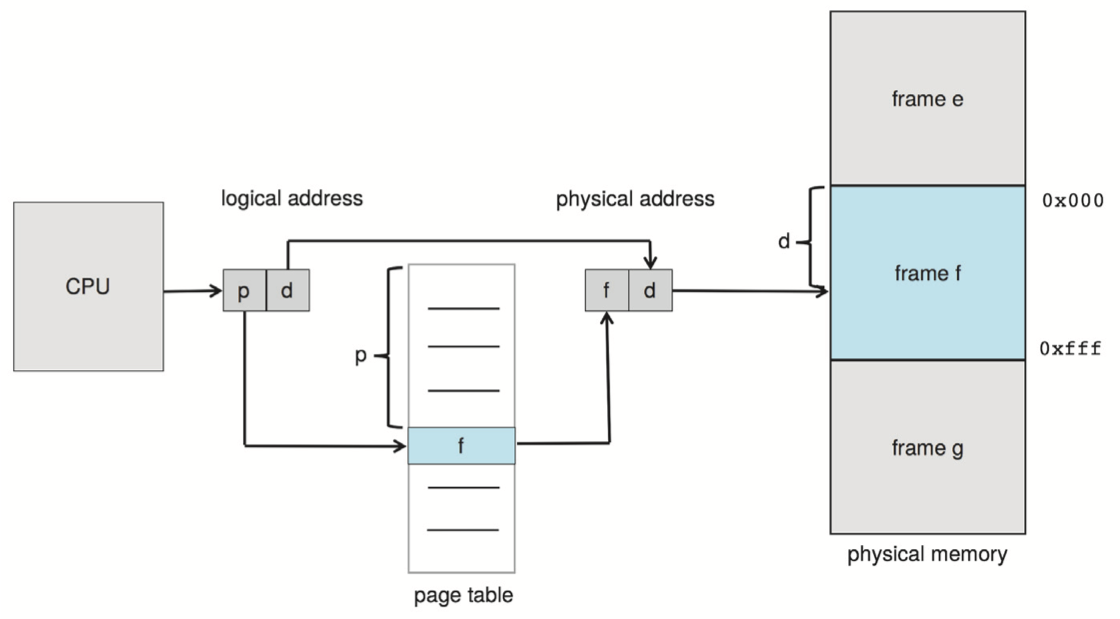
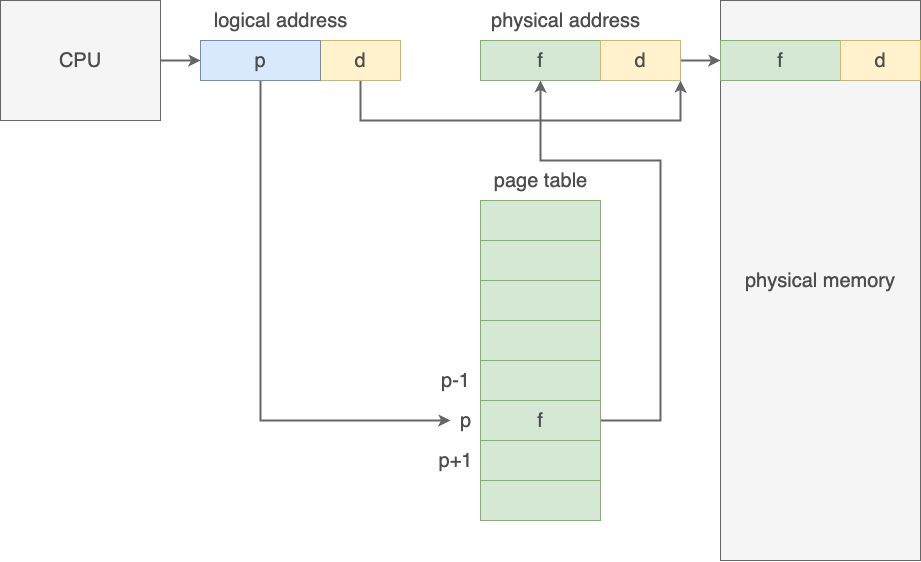
chore: Content synchronization

diff --git a/docs/_css/extra.css b/docs/_css/extra.css
@@ -25,6 +25,12 @@ h1,
     font-weight: 600;
 }
 
+/* can make content in wider div */
+/* .md-grid {
+    margin-left: auto;
+    margin-right: auto;
+    max-width: 95%;
+} */
 
 body,
 input {

diff --git a/docs/cour_note/D3QD_OperatingSystem/Unit3-Part1.md b/docs/cour_note/D3QD_OperatingSystem/Unit3-Part1.md
@@ -122,7 +122,7 @@ Dynamic relocation using a relocation register.
 
 #### 帧 & 页
 
-因此，我们将两者的优点合并，我们将物理内存划分为固定大小的块，称为**帧(frames)**（类似于 fixed partition），每个帧对应虚拟地址中等大的一块**页(pages)**，用这些帧来作为连续的虚拟地址的物理基础，用虚拟的页号来支持连续逻辑内存（马上就会细说），这样保证了在一定限度内页分配的自由度，利用了虚拟地址的灵活性；又保证了内存相对来说还是成块连续的，提供了物理地址连续的高效性。而帧与页的对应关系，是通过**页表(page table)**来实现的。
+因此，我们将两者的优点合并，我们将物理内存划分为固定大小的块，称为**帧(frames)**（类似于 fixed partition），每个帧对应虚拟地址中等大的一块**页(pages)**，用这些帧来作为连续的虚拟地址的物理基础，用虚拟的页号来支持连续逻辑内存（马上就会细说），这样保证了在一定限度内页分配的自由度，利用了虚拟地址的灵活性；又保证了内存相对来说还是成块连续的，提供了物理地址连续的高效性。而帧与页的对应关系，是通过**页表(page table)**来实现的，在页表中，实际上是一个以页号为索引的帧号数组，按照页号顺序排列，因此，页号就是对应的表项在数列中的位次。
 
 显然，每个进程各自维护自己的页表更加合理，所以**每一个进程应当都有自己的页表**，即我们称页表是 per-process data structures。
 
@@ -177,11 +177,15 @@ Paging model of logical and physical memory.<br/>
 
 因此，从虚拟地址到物理地址的映射，实际上就是在页表中查询虚拟地址中的 page number，将其换为 frame number，再直接拼接 offset 就行了。
 
-<figure markdown>
 <center> ![](img/32.png) </center>
-</figure>
 
 > 实际上这是个非常自然的过程：整体地看虚拟地址，就是直接在连续的虚拟内存中找到对应的 Byte；整体地看物理地址，同样也是直接在连续的物理内存中找到对应的 Byte。现在通过置换二进制地址字符串的前缀，实现了一个寻址空间的映射。而这个映射中，表示 offset 的后缀不变，正对应着页和帧中偏移寻址规则的统一。
+
+!!! warning "Protection"
+
+    请注意，使用过程中有些页可能尚未与实际的帧建立映射关系，换句话来说是不可用的。所以我们需要一个手段来标识表项是否有效，于是在页表中引入 valid bit，用来标识页是否有效。
+
+    <center> ![](img/34.png) </center>
 
 !!! tip "page size 的选择"
 
@@ -196,7 +200,6 @@ Paging model of logical and physical memory.<br/>
 我们前面说过，页表是 per-process data structures，所以页表应当作为一个进程的元信息被维护。显然我们不能直接用大量寄存器来维护页表（理论上很快，但是太贵、设计上也不现实），所以页表实际上应当被放在<u>内存</u>中（进一步的，为了保证效率，我们将页表放在主存中），我们通过用寄存器维护一个指向页表的指针来维护页表，这个特殊的寄存器被称为**页表基址寄存器(page-table base register, PTBR)**，在 [context switch](./Unit1.md#context-switch){target="_blank"} 的过程中，我们也应当对 PTBR 进行交换。
 
 !!! question "嘿！可是内存真的好慢！"
-
     不仅如此，由于地址映射的实现逻辑，我们首先需要利用页表查询帧号，利用帧号去得到物理地址，再去内存里做查询，这里有足足两次内存访问操作！
 
     不仅如此，你可能还需要遍历整个页表来达到你的目的！
@@ -205,7 +208,9 @@ Paging model of logical and physical memory.<br/>
 
 但是这么厉害的东西肯定还是有局限性的，TLB 一般都比较小，往往只能支持 32 - 1024 个表项。而且，作为一个“缓存”，它有可能产生 miss（即没在 TLB 中找到待查的页号），当 TLB miss 出现的时候，就需要访问放在内存中的页表，并做朴素的查询。同时，按照一定策略（如 LRU、round-robin to random 等[^2]）将当前查询的键值对更新到 TLB 中。
 
-此外，TLB 允许特定的表项被线固(wired down)，被线固的表项不再允许被替换。（~~这个中文是我自己才华横溢出来的，请不要到处用容易被当没见识。~~）
+<center> ![](img/33.png){width=80%} </center>
+
+此外，TLB 允许特定的表项被线固(wired down)，<u>被线固的表项不再允许被替换</u>。（~~这个中文是我自己才华横溢出来的，请不要到处用容易被当没见识。~~）
 
 !!! warning "注意"
     
@@ -213,9 +218,24 @@ Paging model of logical and physical memory.<br/>
 
 而正是因为这个性质，所以在 context switch 的时候，需要清空 TLB，否则下一个进程就会访问到上一个进程的页表。还有一种设计是，不需要每次都清空 TLB，而是在 TLB 的表项中加入一个**地址空间标识符(address-space identifier, ASIDs)**字段。在查询页号时，也比较 ASID，只有 ASID 一致才算匹配成功。
 
+<center> ![](img/35.png){width=80%} </center>
+
 !!! section "定量分析"
 
-    hit ratio
+    我们使用**击中比例(hit ratio)**来描述我们在 TLB 中成功找到我们需要的页帧键值对的概率，那么假设访问一次内存需要 $t \text{nanoseconds}$，那么使用该 TLB 的**有效内存访问时间(effective memory-access time)**为：
+
+    $$
+    \begin{aligned}
+        &\text{effective memory-access time} \\
+        &= \underbrace{\text{hit ratio} \times \text{memory-access} }_\text{TLB hit}
+         +  \underbrace{(1 - \text{hit ratio}) \times 2 \times \text{memory-access}}_\text{TLB miss} \\
+        &= p_{\text{hit}} \times t + (1 - p_{\text{hit}}) \times 2t \\
+        &= (2 - p_{\text{hit}})t
+    \end{aligned} 
+    $$
+
+    > 在现代计算机中，TLB 的结构可能会更加复杂（可能有更多层），所以实际的计算可能比上述更加复杂。
+
 
 
 ### 共享页
